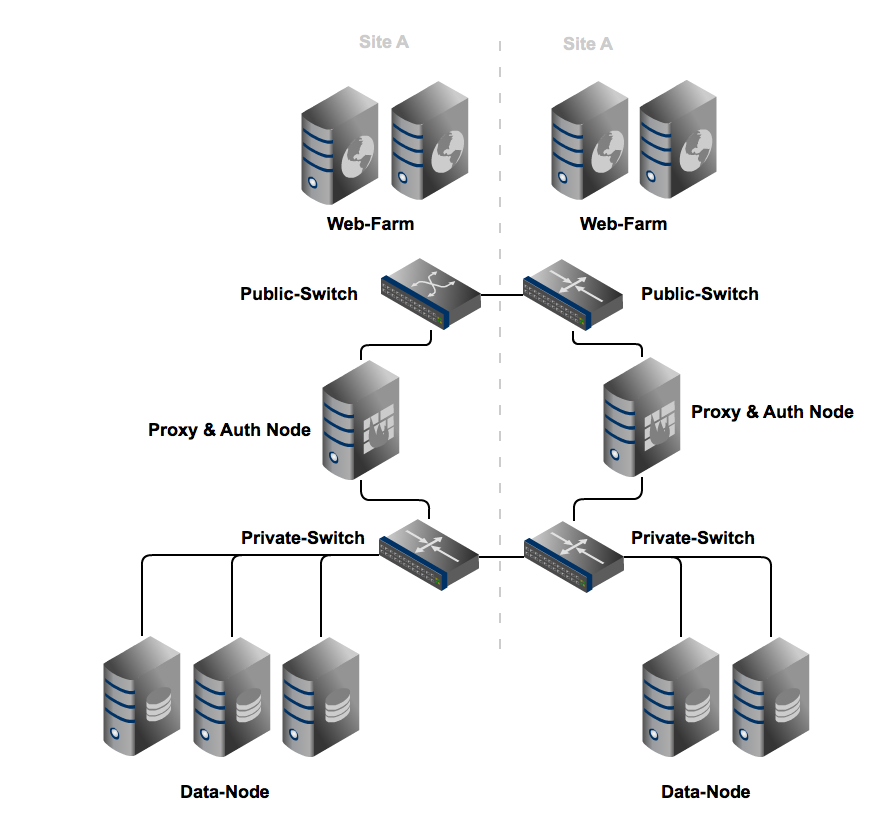
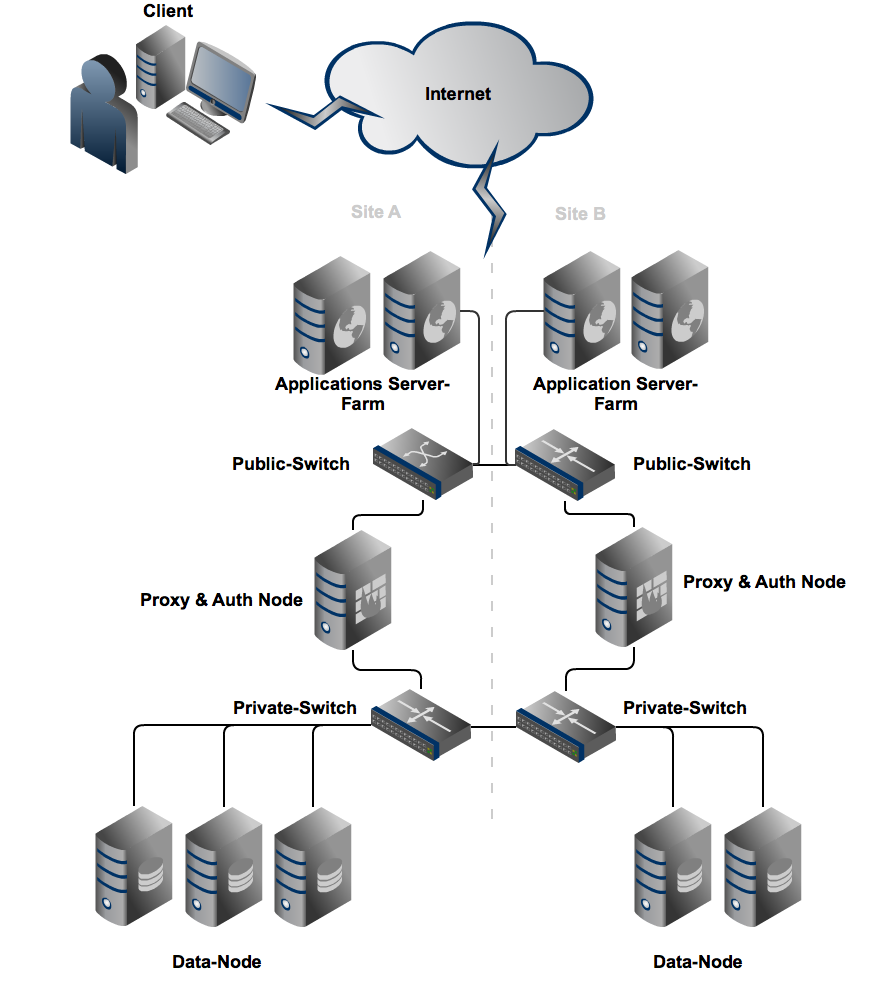
Bilder zu Evaluation hinzugefügt

Changed region(s): [[0.0616, 0.0, 0.9863, 0.9685]]

diff --git a/chapter/evaluation.tex b/chapter/evaluation.tex
@@ -593,6 +593,18 @@ Der Verwaltungskomfort ist deshalb absolut geringer zu Gewichten als die Ausgere
 \subsection{\ref{Al-1}: Hetzner Server}
 Hetzner ist einer der grössten Hosting Anbieter in Deutschland und bietet seit 1997 für Unternehmen und Privat Personen Hosting-Produkte an. In den Vergangenen Jahren hat Hetzer diverse Computer-Magazin Auszeichnungen bekommen. Hetzner betreibt in Deutschland mehre Rechenzentren die mehrfach Redundant an das Internet Angeschlossen sind.
 
+Die \refabb{abb:Hetzner-Infrastruktur} zeigt den gemieteten Hetzner Server mit den internen RAID Disk Speicher. In \refabb{abb:HetznerRaidSpeicher} wird die interne Architektur des RAID Speichers mit den Verschiedenen Speicherschichten dargestellt.
+
+\begin{center}
+\includegraphics[width=\linewidth, keepaspectratio = true]{media/Hetzner.png}
+\mycaption{figure}{\label{abb:Hetzner-Infrastruktur} Dezidierter Server System und Netzwerk Architektur }
+\end{center}
+
+\begin{center}
+\includegraphics[width=\linewidth, keepaspectratio = true]{media/HetznerRAID.png}
+\mycaption{figure}{\label{abb:HetznerRaidSpeicher} Interne Speicherarchitektur }
+\end{center}
+
 \subsubsection{Speicherkapazität}
 Der Grösste Dezidierter Server welche Hetzner in seinen Produkte Katalog führt, ist der Root Server XS 29. Der XS 29 ist mit 15 mal 3 Terabyte SATA Festplatten ausgerüstet. Mit dem zusätzlich eingebauten Hardware RAID Kontroller lassen, sich die 15 Festplatten zu einen RAID zusammen fügen.
 Als CPU hat der Server einen Intel Xeon E3-1245 Quad-Core eingebaut und Verfügt über 16 Gigabyte Hauptspeicher. 
@@ -680,14 +692,6 @@ Kein Produkt erhältlich welche die Anforderungen der Speicherkapazität von Sze
 
 Wie in der Markt Analyse erwähnt ist NetApp der Führende Anbieter in Mittlerer (engl. midrange) und Oberen (Highend) Bereich von NAS und Speicherlösungen. Für beide Szenarien wurde das Modell FAS2240-4 gewählt. 
 
-Die Firma NetApp beschäftigt in der Schweiz an ihren drei Standorten, Wallisellen, Lausanne und Bern ca. 80 Mitarbeiter. Zudem verfügt NetApp Schweiz über ein gut ausgebautes Partner Netzwerk, mit welche Sie die ganze Schweiz gut verankert sind. Mit FastLane und QSkills sind zwei Schulungspartner im Raum Zürich verfügbar, welche offizielle Kurse und Zertifizierenden für NetApp Produkte anbieten. 
-
-Neben der Allgemeinen Garantie Gewährleistungen, bietet NetApp weiteren kostenpflichtige Support Leistungen an. So steht mit dem SupportEdge Premium, den Remote Support mit einer Reaktionszeit von minimal 30 Minuten rund um die Uhr zur Verfügung, oder den die Installation von Ersatzteilen mit einer Reaktionszeit von minimal 2 Stunden rund um die Uhr zur Verfügung. 
-
-Für den Support und Wartungen stehen mehre Produkte bereit von Verlängerung der Hardware-Garantie, Auto-Support mit oder ohne Austausch der Hardware durch NetApp.
-
-Für die Verwaltung der NetApp stehen, neben eines Kommandzeilen, Web-Interface weitere teilweise Kostenpflichtige Lösungen von NetApp zu Verfügung. 
-
 \subsubsection{Verfügbarkeit}
 Die Netapp hat mehre Mechanismen für die Sicherstellung der Daten Verfügbarkeit. So werden die Festplatten mittels RAID-DB System zusammen gefasst. RAID-DP ist eines auf Basis von RAID-4 von NetApp weiter entwickeltes RAID. Bei RAID-DP wird jedoch im Unterschied zu RAID-4 ein weiter Paritäts-Festplatte eingesetzt. Wie im \refabb{abb:RAID-DP} ersichtlich, gibt es ein Horizontale Parität und eine Diagonale Parität, die diagonale Parität ist durch die Farben dargestellt und auf der Festplatte DP gespeichert, die horizontale ist auf der Festplatte P gespeichert, die Festplatten mit D sind normale RAID Daten Festplatten. Die Doppelte Parität hat den Vorteil, dass die Verfügbarkeit des RAID erhöht wird. So kann bei einen RAID-DP gleichzeitig zwei Festplatten im RAID zur gleichen Zeit ausfallen, ohne das diese zu einen Datenverlust führt. Im Vergleich dazu kann RAID-4 oder RAID-5 nur den Ausfall einer Festplatte kompensieren. \cite{White2010}
 
@@ -722,7 +726,7 @@ Die Anzahl möglicher Objekte die in einen NetApp Volumen gespeichert werden kö
 
 Die maximale Anzahl an möglicher Objekte eines GFS Dateisystem ist variable. Inodes werden dynamisch alloziert.
 
-\subsubsection*{Datenschutz}
+\subsubsection{Datenschutz}
 NetApp Speichert die Daten auf die Disk in 4 Kilo Byte Blocks. Zu jeden 4 Kilo Byte Block berechnet NetApp ein Prüfsumme und speichert diese in die Block Metadaten. Wenn der Block zu einen späteren Zeitpunkt wieder gelesen ist, berechnet die NetApp die Prüfsumme erneut und vergleicht diese mit der Gespeicherten Prüfsumme. Wenn die Prüfsumme nicht übereinstimmt, wird der Block mittels den Paritäts-Daten neu geschrieben, erneut gelesen und geprüft. Um die Integrität von Daten zu gewährleisten auf welche über ein langen Zeitraum nicht zugegriffen wird, wie diese zum Beispiel bei Archive Daten der Fall ist, hat NetApp ein konfigurierbare RAID durchkämmen (engl. RAID scrub) Funktion. Die Funktion geht durch alle Daten durch, wodurch die Prüfsumme von allen gespeicherten Daten geprüft wird. Die Funktion kann Zeitgesteuert oder wenn das System im Leerlauf befindet. \cite{Sundaram2006}
 
 Zu beachten ist, dass die Prüfsumme auf dem Block nur auf der Speicherebene Wirkung hat. Fehler die in einer höheren Ebene stattfindet, wie zum Beispiel beim Einsatz von iSCSI zusammen mit einen Dateisystem, könnte bereits einen Fehler im Dateisystem durch einen Software Fehler oder Memory Fehler statt finden. 
@@ -735,6 +739,15 @@ Beim Snapshots Sicherungsverfahren werden zeitbezogene Sicherung des Dateisystem
 
 Bei bedarf kann die Kommunikation zwischen Speichersystem und Applikation Server mit IPSec abhörsicher verschlüsselt werden. Zusätzlich bietet NetApp ab Version 8 die Verschlüsselung der ganzen Disk an.
 %Sicherheit NFS IPSEC, intern
+
+\subsubsection{Technologie}
+Die Firma NetApp beschäftigt in der Schweiz an ihren drei Standorten, Wallisellen, Lausanne und Bern ca. 80 Mitarbeiter. Zudem verfügt NetApp Schweiz über ein gut ausgebautes Partner Netzwerk, mit welche Sie die ganze Schweiz gut verankert sind. Mit FastLane und QSkills sind zwei Schulungspartner im Raum Zürich verfügbar, welche offizielle Kurse und Zertifizierenden für NetApp Produkte anbieten. 
+
+Neben der Allgemeinen Garantie Gewährleistungen, bietet NetApp weiteren kostenpflichtige Support Leistungen an. So steht mit dem SupportEdge Premium, den Remote Support mit einer Reaktionszeit von minimal 30 Minuten rund um die Uhr zur Verfügung, oder den die Installation von Ersatzteilen mit einer Reaktionszeit von minimal 2 Stunden rund um die Uhr zur Verfügung. 
+
+Für den Support und Wartungen stehen mehre Produkte bereit von Verlängerung der Hardware-Garantie, Auto-Support mit oder ohne Austausch der Hardware durch NetApp.
+
+Für die Verwaltung der NetApp stehen, neben eines Kommandzeilen, Web-Interface weitere teilweise Kostenpflichtige Lösungen von NetApp zu Verfügung. 
 
 \subsubsection{Kosten}
 
@@ -820,13 +833,15 @@ Personal & CHF 3'750.00 & 1 & CHF 3'750.00 \\ \hline \hline
 \subsection{\ref{Al-4}: OpenStack Objekt Storage}
 OpenStack Object Storage ist ein Quelloffene frei verfügbare Verteilter Speicherlösung. OpenStack Object Storage selbst ist kein Dateisystem sondern eher ein Speicher Cluster, welche primär für die Speicherung von Virtual Maschine Images, Bilder, E-Mail und Sicherungskopien vorgesehen ist. Für einen OpenStack Cluster kommen vergleichbar mit dem Google Filesystem, kosten günstige Konventionelle Computer Hardware zum Einsatz. 
 
+Im \refabb{abb:OpenStack-Infrastruktur} Zeigt die System und Netzwerk Architektur der OpenStack Object Storage Infrastruktur. Die Infrastruktur besteht aus zwei Proxy und Authentifizierungs Server welche mit den 5 Daten-Node in welcher jeder eine Eigene Zone Repräsentiert über eine Privates geswitches Netzwerk Verbunden sind. Die Applikations-Server Farm oder Web-Farm greift über das Offentliche Netzwerk über die Proxy Server auf den Speicher zu. Die Infrastruktur ist jeweil für Szenario-2 über zwei Standort verteilt, hier Site A und Site B.
+
 \begin{center}
 \includegraphics[width=\linewidth, keepaspectratio = true]{media/OpenStack.png}
 \mycaption{figure}{\label{abb:OpenStack-Infrastruktur} OpenStack Infrastrutkur}
 \end{center}
 
 
-\paragraph*{Verfügbarkeit}
+\subsubsection{Verfügbarkeit}
 OpenStack Object Storage wurde so konzipiert das einen Ausfall einer Hardware Komponente, der weiter Betrieb weiter aufrecht erhalten werden kann ohne dabei einen Datenverlust oder die Verfügbarkeit des System zu gefährden. Die Daten bzw. Objekte werden Redundant auf mehren Zonen gespeichert. Zonen sind Gruppierungen von Servern. Die Anzahl redundanten Replikate für ein Objekt kann konfiguriert werden, gewöhnlich werden drei Kopien verwendet.
 
 Für die Architekt wird von Joe Arnolds CEO bei SwiftStack bei dreifacher Redundanz, die Implementierung von 5 Zone empfohlen. OpenStack Object Storage, speichert die Redundante Objekte jeweils in einer separaten Zonen. Eine Zone kann bei kleinen Implementationen auch nur aus Gruppen von Festplatten bestehen, also innerhalb eines einzigen Server existieren, es wird aber empfohlen eine Zone auf Hierarchie von Server-Gruppen zu implementieren. Das bedeutet jede Redundante Kopie auf einen eigenen Server gespeichert. \cite{Arnold} 
@@ -835,12 +850,12 @@ Zusätzlich zu den Speicherserver benötigt es noch zwei oder mehrere Proxy Serv
 
 Möchte man den Speicher Standort übergreifend betreiben, ist es erforderlich, dass pro Standort nicht mehr als $(Redundanz -1)$ Zonen betrieben werden, da ansonsten die Gefahr besteht das alle Replikate am gleichen Standort gespeichert werden.
 
-\paragraph*{Speicherkapazität}
+\subsubsection{Speicherkapazität}
 Der OpenStack Object Storage Cluster lässt sich im laufenden Betreib ohne Unterbruch, vergrössern. In der Regeln können auch Software Update und Patches ohne Unterbruch des Clusters eingespielt werden, wenn darauf geachtet wird nie mehr als eine Zone gleichzeitig zu aktualisieren.
 
 Grundsätzlich ist Anzahl an Speicherbaren Objekten nicht begrenzt. Der Container Server von OpenStack Object Storage, welcher primärer Aufgabe ist die Auflistung der gespeicherten Objekten in einen Container zu handhaben, speichert die Informationen welche Objekte im Container befinden pro Container in ein SQLite Datenbank. Die Performance der Datenbank, welche mit der Anzahl Einträge abnimmt, kann sich zum Limitierenden Faktor entwickeln wie viele Objekte in einen Container gespeichert werden können. Der Performance Einbruch kann, je nach Leistung der Hardware und die generelle Last auf dem Cluster, bei einer Million Objekte pro Container eintreten. Es können jedoch pro Account mehre Container erstellt werden, wodurch sich das Problem mit der Limitierung durch Datenbank entschärfen lässt. Zu beachten ist hier jedoch, das pro Account ebenfalls eine SQLite Datenbank geführt wird mit allen Container und hier die selben Limitierung zum tragen kommt. \cite{OpenStack2012}\cite{A2011}
 
-\paragraph*{Datenzugriff}
+\subsubsection{Datenzugriff}
 Der Zugriff auf die gespeicherten Objekten erfolgt vergleichbar wie bei Amazon S3 über ein API. Das API verwendet für den Zugriff das Standard HTTP Request. Mehre Speicherlösung Hersteller haben angekündigt, das Swift API ebenfalls für den Zugriff auf Ihren Speicher unterstützen zu wollen. Glusterfs ebenfalls eine Verteile Speicherlösung, bietet in Ihrer Entwickler Version bereits die Unterstützung für Swift an. Applikationen welche, das Swift API unterstützen können Ihren Speicherlösung zukünftig einfacher austauschen ohne dabei die Applikation anpassen zu müssen. Neben den Zugriff mit dem Swift API, bietet OpenStack eine Amazon S3 kompatibles API an. Der Zugriff über POSIX IO auf den Speicher ist nicht möglich.
 
 Der Zugriff auf den Speicher erfolgt über einen Proxy welche, den Speicherort des Objektes prüft und die Anfrage weiterleitet. Pro OpenStack Object Storage Cluster können mehre Proxy eingesetzt werden. Mit Hilfe eines Load Balancers (Last Verteiler) können die Anfragen über die vorhanden Proxy verteilt werden.
@@ -848,7 +863,7 @@ Der Zugriff auf den Speicher erfolgt über einen Proxy welche, den Speicherort d
 Die Maximale Upload Grösse beträgt 5 GB, die Download Grösse selber ist jedoch unbeschränkt. Wenn ein Objekt welches grösser als 5 GB hochgeladen wird, wird das Objekt in Teilen hochgeladen und gespeichert, die Abfrage auf das Objekte erfolgt jedoch wie bei einen ganzen Objekt, es müssen also keine Teile durch das API Adressiert werden. \cite{OpenStack2012a}
 
 
-\paragraph*{Datenschutz}
+\subsubsection{Datenschutz}
 OpenStack Object Storage stellt die Datenintegrität beim Speichern von Objekten in den Speicher und beim auslesen der Daten sicher. Somit ist gewährleistet, dass die Daten im Original gespeichert werden und bei der Speicherung kein Datenverlust entsteht. Die Selbstheilung von korrupten Objekten, stellt OpenStack Objekt Storage mit dem Auditors Dienst sicher. Der Auditors Dienst läuft auf jeden Server und prüft dort die Integrität von Objekten, wenn ein korruptes Objekt festgestellt wird, wird die Datei unter Quarantäne gestellt und durch ein korrektes reblikations Objekt ersetzt.
 Um die Last die durch den Auditors möglichst gering zu halten, kann die Anzahl Objekte oder die Anzahl Bits die pro Sekunde geprüft werden konfiguriert werden. \cite{OpenStack2012}
 
@@ -857,7 +872,7 @@ OpenStack Objekt Storage bietet neben der Redundanz der Objekte keine Möglichke
 
 Die Sicherheit der Daten wird mit sogenannten Accounts Sichergestellt, dass heist das ein Account nur auf seine gespeicherten Objekten zugreifen kann. Die Daten werden auf dem OpenStack Cluster Unverschlüsselt in Binären form gespeichert. Durch die Verteilung der Daten müsste jedoch eine Angreifer Zugriff auf alle Cluster Node erlangen um an alle Daten eines Account zu gelangen.
 
-\paragraph*{Technologie}
+\subsubsection{Technologie}
 OpenStack Objekt Storage wurde von der Firma RackSpace unter dem Code Name Swift entwickelt. Zusammen mit National Aeronautics and Space Administration (kurz. NASA) hat RackSpace die Softwareprojekt-Gemeinschaft OpenStack gegründet und Swift zusammen mit den Cloud Lösungen Nova für die Verwaltung von Virutellen Maschinen und Glace für die Verwaltung von Image als Quelloffene Software veröffentlicht. Die OpenStack Gemeinschaft ist in Vergleich zu anderen Quelloffenen Gemeinschaften noch eine relative jung Gemeinschaft, es gelangt Ihr dennoch neben den beiden Gründer Unternehmen, weiter bedeutende Unternehmen aus der Informatik Branche, wie Hewlett Packard, Dell, Citrix, Intel, AMD, NetApp und weitere zu gewinnen. Eine vollständige Liste aller Unterstützende Unternehmen ist unter \url{http://openstack.org/community/companies/} zu finden. Die Aktivität auf der Projekt Seite von OpenStack Object Storage, lässt erkennen, dass die Entwicklung aktive vorangetrieben wird und viele Beiträge zur neuen Funktionen oder Verbesserungen von Anwender und Entwickler bei gesteuert werden. \cite{Ohloh2012}
 
 Die Internet-Recherche auf OpenStack spezialisierte Firmen mit Standort Schweiz ergaben keine Ergebnisse. Einige
@@ -962,7 +977,7 @@ Personal & CHF 15'000.00 & 1 & CHF 15'000.00 \\ \hline \hline
 
 
 
-\subsubsection{Kosten Szenario-2}
+\paragraph*{Kosten Szenario-2}
 
 Für die dreifache Redundanz sind für die aus der Soll-Analyse bestimmten 306 Tebibyte gemäss \refeqlb{eqn:SpeicherkapazitätS2} 918 Tebibyte an Speicherkapazität notwendig.
 
@@ -1044,7 +1059,12 @@ Personal & CHF 15'000.00 & 1 & CHF 15'000.00 \\ \hline \hline
 \subsection{\ref{Al-5}: Amazon S3}
 Amazon zählt zu den Grössten, wenn nicht der grösste Online Speicheranbieter weltweit. Genaue Anzahlen über die Anzahl Kunden und Speicherkapazität veröffentlich Amazon nicht. Seit 2006 bietet Amazon Ihren Kunden unter den Produktname S3, einen Online Speicher an. Die genaueren Technischen Eigenschaften und Architektur des Online Speicher ist bis anhin von Amazon nicht veröffentlicht worden. Nach eigenen Angaben von Amazon basiert die Dienstleistung auf gewöhnlichen Computer Hardware.
 
+Im \refabb{abb:AmazonS3-Infrastruktur} ist die Netzwerk und System Architektur dargestellt. Es zeigt wie die Applikations-Server Farm Bildobjekte über das Internet auf dem Amazon S3 Speicher ablegt und darauf zugreift. Zudem zeigt die Abbildung wie eine Client Anfrage auf eine Bildobjekt an die Applikations-Server Farm, den direkten URL Pfad zum Bildobjekt auf den Amazon S3 Speicher verweist, somit kann die Auslieferung der Bilddaten direkt über Amazon S3 erfolgen, was die Bandbreite der Applikations-Server Farm entlastet. 
 
+\begin{center}
+\includegraphics[width=\linewidth, keepaspectratio = true]{media/Amazon_S3.png}
+\mycaption{figure}{\label{abb:AmazonS3-Infrastruktur} Amazon S3 Netz und System Architektur}
+\end{center}
 
 
 
@@ -1052,12 +1072,12 @@ Amazon zählt zu den Grössten, wenn nicht der grösste Online Speicheranbieter 
 Bei Online Speicher wie Amazon S3, kann der Kunde gleich nach Anmeldung an den Dienst, die Speicherressourcen verwenden. Es fallen also keine Installation von für
 die Speicherinfrastruktur an. 
 
-\paragraph*{Verfügbarkeit}
+\subsubsection{Verfügbarkeit}
 Amazon S3 Speichert die Daten auf mehren Geräten in Verschiedenen Rechenzentren in der selben Region ab. Bei speichern werden die Daten Synchron in Verschiedene Rechenzentren gespeichert bevor die Speicherung als erfolgreich gemeldet ist, damit ist sicher gestellt, dass die Daten von beginn weg Redundant gespeichert sind. Mit diesen Massnahmen gewährleistet Amazon gemäss Dienstgütevereinbarung eine Zuverlässigkeit von 99.999999999\%. Bei bedarf kann die Zuverlässigkeit für Daten welche wenig Schutz benötigen, wie zum Beispiel Thumbnails von Bilder, mit einer geringeren Zuverlässigkeit von 99.99\% zu einen günstigeren Preis gespeichert werden. \cite{Amazon2007}
 
 Durch die Redundante Speicherung der Daten auf mehre Geräten gewährleistet Amazone gemäss Dienstgütevereinbarung von 99.99\% pro Monat
 
-\paragraph*{Datenzugriff}
+\subsubsection{Datenzugriff}
 Der Zugriff auf die Daten findet über eine API oder über die Verwaltungskonsole von Amazon statt. Für den Zugriff mit einen API bietet Amazon ein \gls{REST} und ein \gls{SOAP} Schnittstelle an. Der \gls{REST} Zugriff findet über HTTP statt, dabei werden Standard HTTP requests verwendet. Für den Zugriff kann auch einen gewöhnlichen Web-Browser verwendet werden solange die Objekte Öffentlich sind.
 
 Einen Offiziellen POSIX IO Zugriff von Amazon steht nicht zur Verfügung, es existiert jedoch eine Quelloffenes Projekt Namens s3fs\footnote{\url{https://code.google.com/p/s3fs/}} welche es ermöglicht eine Amazon S3 Speicher unter Linux zu mounten. \cite{S3fs}
@@ -1070,12 +1090,12 @@ Für das Einlesen von Grossen Datenmengen bietet Amazon einen kostenpflichtigen 
 
 Die API von Amazon ist gut Dokumentiert, weshalb für einen erfahrenen Entwickler die Anbindung der Web-Applikation an Amazon S3 umsetzbar sein sollte.
 
-\paragraph*{Speicherkapazität}
+\subsubsection{Speicherkapazität}
 Für die Skalierung der Speicherkapazität kümmert sich Amazon.
 
 Im Amazon S3 können eine unbegrenzte Zahl von Objekten gespeichert werden, welche eine Speichergrösse von 1 Byte bis zu 5 Terrabyte haben können, wobei aber in einen PUT maximal 5 Gigabyte hochgeladen werden können. Für das Hochladen von Grösseren Objekten, muss die Multipart Funktion verwendet werden, welche das Objekte in mehren Teilen hochladet.\cite{Amazon2012b}
 
-\paragraph*{Datenschutz}
+\subsubsection{Datenschutz}
 Die Daten können bei Amazon in mehren Regionen gespeichert werden. Zu den verfügbaren Regionen gehören, US Standard, US West (Oregon), US West (Northern California), EU (Ireland), Asia Pacific (Singapore), Asia Pacific (Tokyo), South America (Sao Paulo). Gemäss Amazon verlassen die Gespeicherten Daten eine Region nicht, ausser für die Erfüllung von Gesetzen oder auf Anforderung von Regierung Anweisung. Als US Amerikanisches Unternehmen steht Amazon wegen dem Patrot Act, unter der Pflicht, den USA Behörden Zugang zu Informationen zu gewährleisten auf behördlichen Anforderungen, auch wenn diese Informationen ausserhalb der USA gespeichert sind. Gemäss EU Recht darf jedoch keine gespeicherten Informationen, an dritten Zugänglich gemacht werden oder ausserhalb der EU gespeichert werden, ohne Einverständnis. Bei Microsoft ebenfalls eine Grosser Cloud Anbieter bestätigt diese Annahme, das die Daten nicht vor den Zugriff der USA geschützt sind.\cite{Amazon2012}\cite{Ostler}
 
 Die Integrität der Daten wird mit einer Prüfsumme sichergestellt. Die gespeicherten Daten werden von Amazon regelmässig auf Ihre Integrität geprüft und bei bedarf von einer Integer Kopie der Daten ersetzt. 
@@ -1088,7 +1108,7 @@ Für die Berechtigung und Verwaltung stellt Amazon ein Web-GUI zur Verfügung. B
 
 Amazon bietet neben der Redundanz der Objekte kein weiteres Sicherungsverfahren an. Beim Herunterladen der Daten fallen für den Transfer weiter Kosten an.
 
-\paragraph*{Technologie}
+\subsubsection{Technologie}
 Der Online Speicher von Amazon S3 gilt als ausgereiftes und etabliertes Produkt im Markt, weshalb davon ausgegangen werden kann, dass die Dienstleistung über die nächsten vier Jahre drübenraus noch bestehen wird und für den Kunden keine Migration notwendig ist. Amazon S3 wird ebenfalls von SmugMug ebenfalls eine Photodienstleister oder andere bekannte Web-Applikationen wie Dropbox verwendet.\cite{SmugMug}\cite{Dropbox2011}
 
 Der Online Speicher Markt ist im Verhältnis zu anderen Speicher Märkte noch relativ jung, Analysten wie Jeff Boles gehen davon aus, dass der Online Speicher Markt in den nächsten Jahren weiter stark wächst. Wie in der Marktstudie beschrieben konnte Amazon seit dem Start des Amazon S3 Produktes die Anzahl gespeicherte Objekte jeweils pro Jahr mehr als verdoppeln (sie dazu \refabb{abb:AnzahlObjekteAmazonS3}). Die Konkurrenz von grossen Anbietern wie Google, Microsoft oder Rackspace nimmt für Amazon bereits zu. Für den Kunden bedeutet diese, dass die Anbieter Ihre Preise noch stärker kalkulieren müssen um ein Konkurrenz fähiges Angebot zu haben. Amazon hat die Preise für S3 Speicher erst kürzlich angepasst.\cite{Boles2011}\cite{Barr2012a}

diff --git a/chapter/empfehlung.tex b/chapter/empfehlung.tex
@@ -1,3 +1,5 @@
 %!TEX root=../documentation-bachlorthesis-speicherarchitektur-lstucker.tex
 \cleardoublepage
 \chapter{Empfehlung für den Auftraggeber}
+
+jhjhjh
